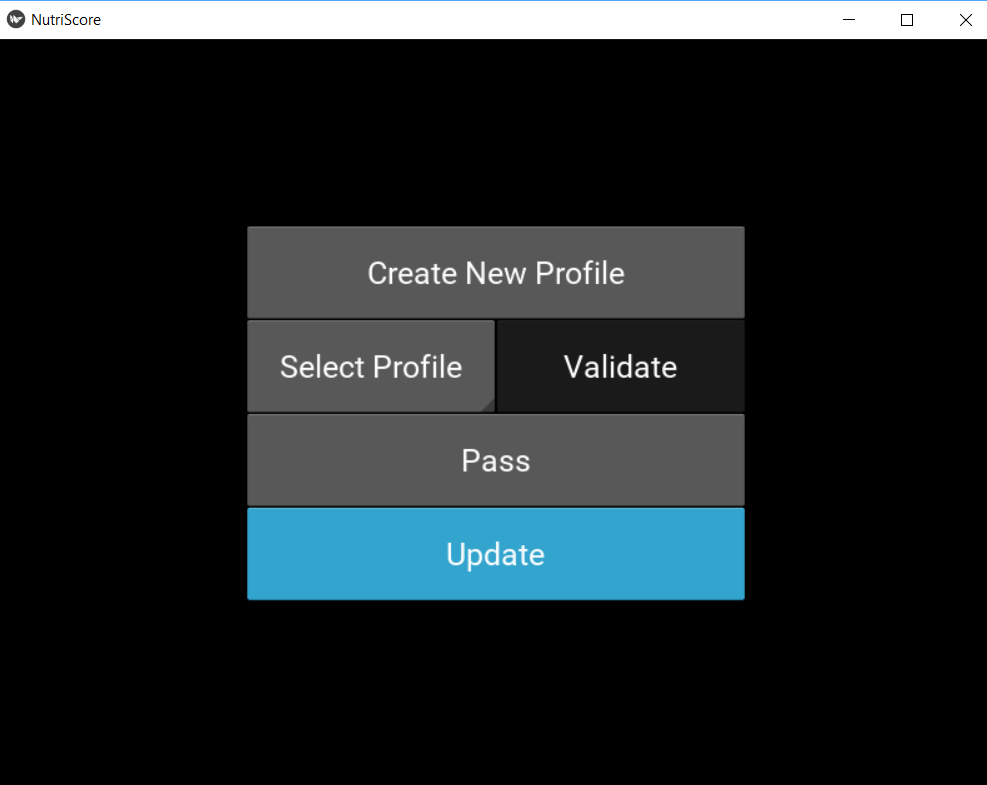
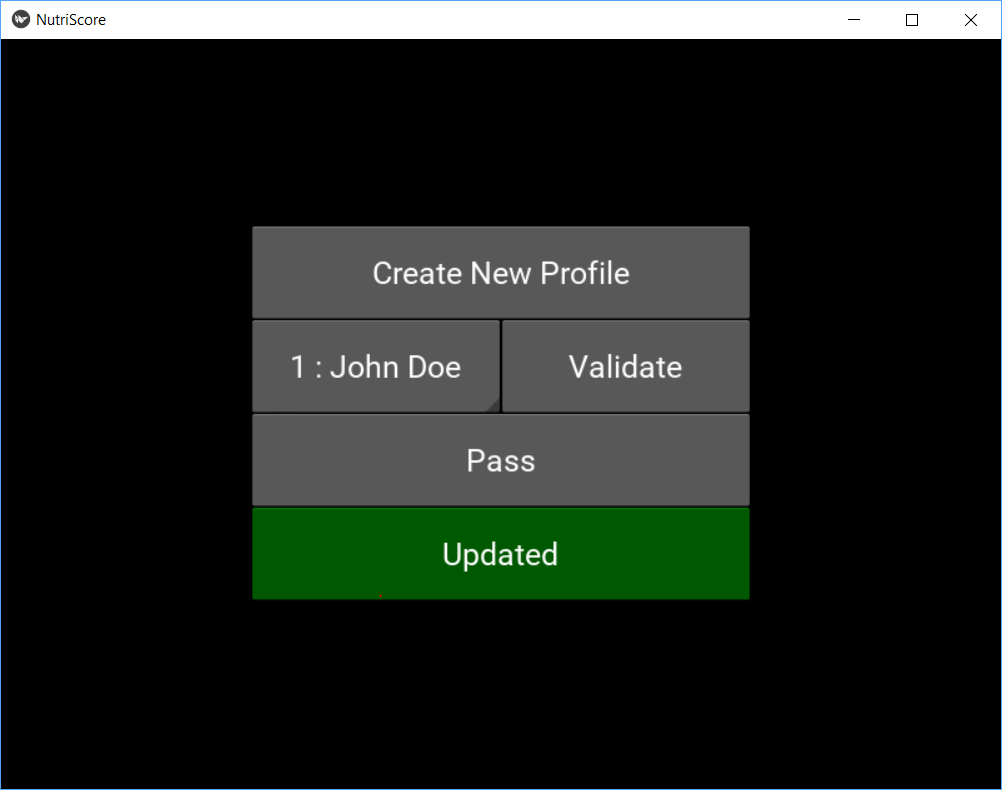
update how to

diff --git a/app.md b/app.md
@@ -3,6 +3,19 @@ layout: default
 title: App
 ---
 
+<nav aria-label="Page navigation example">
+  <ul class="pagination justify-content-end">
+    <li class="page-item disabled">
+      <a class="page-link" href="#" tabindex="-1">Previous</a>
+    </li>
+    <li class="page-item"><a class="page-link" href="#">User guide</a></li>
+    <li class="page-item"><a class="page-link" href="./case_study.htlm">Telling Story</a></li>
+    <li class="page-item">
+      <a class="page-link" href="./case_study.htlm">Next</a>
+    </li>
+  </ul>
+</nav>
+
 # Application
 
 * [Download](#download)
@@ -68,9 +81,12 @@ If you choose not to create a profile, you can press the **Pass** button which w
 
 #### 4. Update
 
+![png](./image/screen_profile_updating.PNG)
+
+As the database of *OpenFoodFacts* grows and improves daily, you might want to update the local database frequently, which can be done pressing this button. The button turns blue when it is updating. *Wait, do not press other buttons to avoid crashing the application !* Then, it turns green when the update is finished.
+
 ![png](./image/screen_profile_update.PNG)
 
-As the database of *OpenFoodFacts* grows and improves daily, you might want to update the local database frequently, which can be done pressing this button.
 
 ### 3. Settings Screen
 
@@ -80,12 +96,13 @@ The Settings Screen is an optional screen. You can input your personal informati
 The profile need the following information :
 1. **Name** : Enter your name (It can be a pseudo, as it is used to distinguish the profiles and personalize the e-mail.)
 2. **Surname** : Enter your surname (It can be a pseudo, as it is used to distinguish the profiles and personalize the e-mail.)
-3. **Age** : Enter your age, in years. It must be a whole number between 1 and 120. It is used for the computation of the recommendations.
+3. **Age** : Enter your age, in years. It must be an integer between 1 and 120. It is used for the computation of the recommendations.
 4. **Sex** : Check either Male or Female. It is a binary choice, unrelated to the gender, as nutrition tables take the sexual dimorphism of metabolism as a criterion.
-5. **Weight** : Enter your weight, in kilograms. It must be a positive whole number. It is used for the computation of the recommendations.
+5. **Weight** : Enter your weight, in kilograms. It must be a positive integer
+. It is used for the computation of the recommendations.
 6. **Email** : Enter your e-mail in order to receive an message from us with your recommendations inside.
 7. **Activity** : Check the radio button which describes the most your job, i.e. mainly seated, seated and standing or mainly standing. It is used for the computation of the recommendations.
-8. **Days** : Enter the number of days over which you want to evaluate your food consumption. It must be a positive whole number.
+8. **Days** : Enter the number of days over which you want to evaluate your food consumption. It must be a positive integer.
 
 If input data do not correspond to the criteria, the fields concerned will be reset and displayed in red.
 
@@ -160,12 +177,57 @@ Once you added all the products that make up your diet you can press the **Valid
 
 ![png](./image/screen_quantities.png)
 
+This screen is dedicated to the entry of quantities consumed by products. Each value has to be input individually, as a positive integer in grams or mililiters, according if it is solid food or beverages. If by mistake there is one or more unwanted products, it is possible to leave the quantity at 0 instead of returning to the [Product Screen](#4-product-screen) to remove it. In order to save a quantity, it is necessary to press the **Add** button of each product.
+
+**_Bug report_** There is a display bug with the **Add** button. The *on_press* animation happens on another button of the list, for unknown reasons. However, it is indeed the button you pressed which will save the quantity value of its corresponding product.
+
+Example of filled in quantities :
+![png](./image/screen_quantities_filled.png)
+
+When all desired quantities are entered, you can press the **Validate** button.
+
+![png](./image/screen_quantities_validate.png)
 
 ### 6. Final Screen
 
+![png](./image/screen_results.PNG)
 
+This is the final screen of this application. While the screen looks like the image above, the application is computing the Nutri-Scores. *Wait, do not press other buttons to avoid crashing the application !*
+
+Finally, the results will be displayed as in the image below.
+
+![png](./image/screen_results_grades.PNG)
 
 ### 7. E-mail
+
+If you completed your profile, you now have received an e-mail. Check your spam if you did not received it yet.
+
+The E-mail is organized in several categories.
+
+#### 1. Nutri-Score
+
+This is a reminder of the Nutri-Scores.
+
+![png](./image/email_1.PNG)
+
+#### 2. Recommendation
+
+This is recommendations according to your diet. The reference values come from <a href="http://www.sge-ssn.ch/fr/science-et-recherche/denrees-alimentaires-et-nutriments/recommandations-nutritionnelles/valeurs-de-reference-dach/" target="_blanck"
+	>Société Suisse de Nutrition (SSN)</a>. These recommendations are not for medical use and have been computed from <a href="https://world.openfoodfacts.org/" target="_blanck">	Open Food Facts</a> database.
+
+![png](./image/email_2.PNG)
+
+#### 3. Healthier product
+
+These are recommendations concerning the choice of your products. According to its category, it is determined if a product is the best one or if there is a better product. If so, this better product is suggested to you.
+
+![png](./image/email_3.PNG)
+
+#### 4. Selected products
+
+This is a reminder of the products you selected. They are linked to their page on *OpenFoodFacts*. You are strongly encouraged to look at these pages and correct/complete them if you find mistakes. That will let you improve *OpenFoodFacts* database, and therefore, this application.
+
+![png](./image/email_4.PNG)
 
 
 ## Demo
